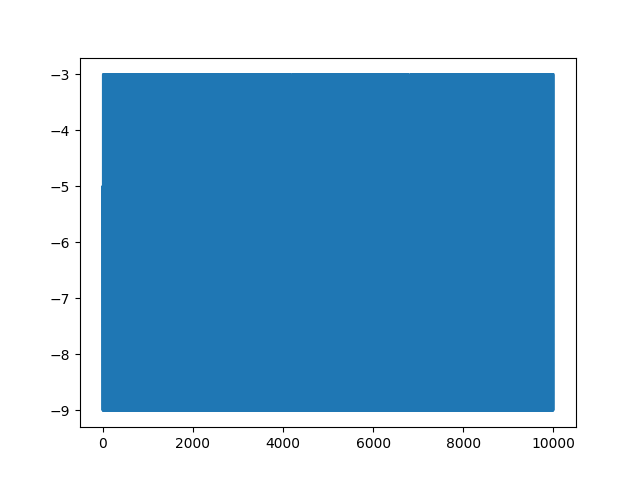
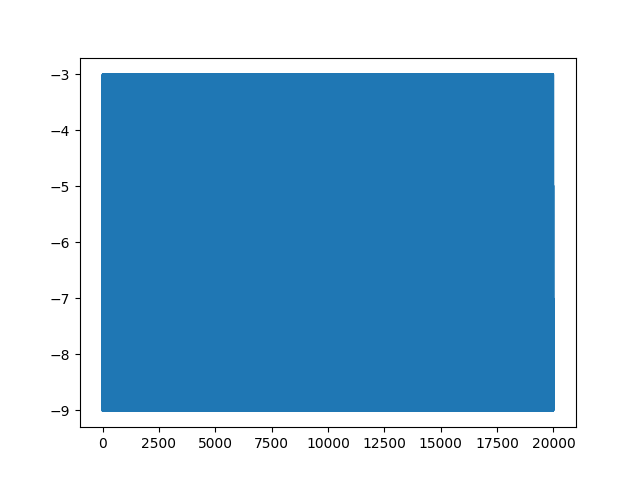
changed alpha to 0.1

Changed region(s): [[0.6562, 0.9062, 0.9062, 0.9375], [0.4062, 0.9062, 0.625, 0.9375], [0.2188, 0.9062, 0.375, 0.9375]]

diff --git a/train_multi_dimensional.py b/train_multi_dimensional.py
@@ -8,9 +8,9 @@ trajectories_arr = []
 
 epsilon = 1
 
-alpha = 0.05
+alpha = 0.1
 
-epochs = 10_000
+epochs = 20_000
 
 undiscounted_rewards = []
 
@@ -34,6 +34,7 @@ for _ in range(epochs):
         board.state_action_average_reward[cur_state][cur_action] += alpha * (target - Q)
     
     epsilon = max(0.01, epsilon * 0.999)
+    print(epsilon)
 
 for state, actions in board.state_action_average_reward.items():
     print(state, actions)
